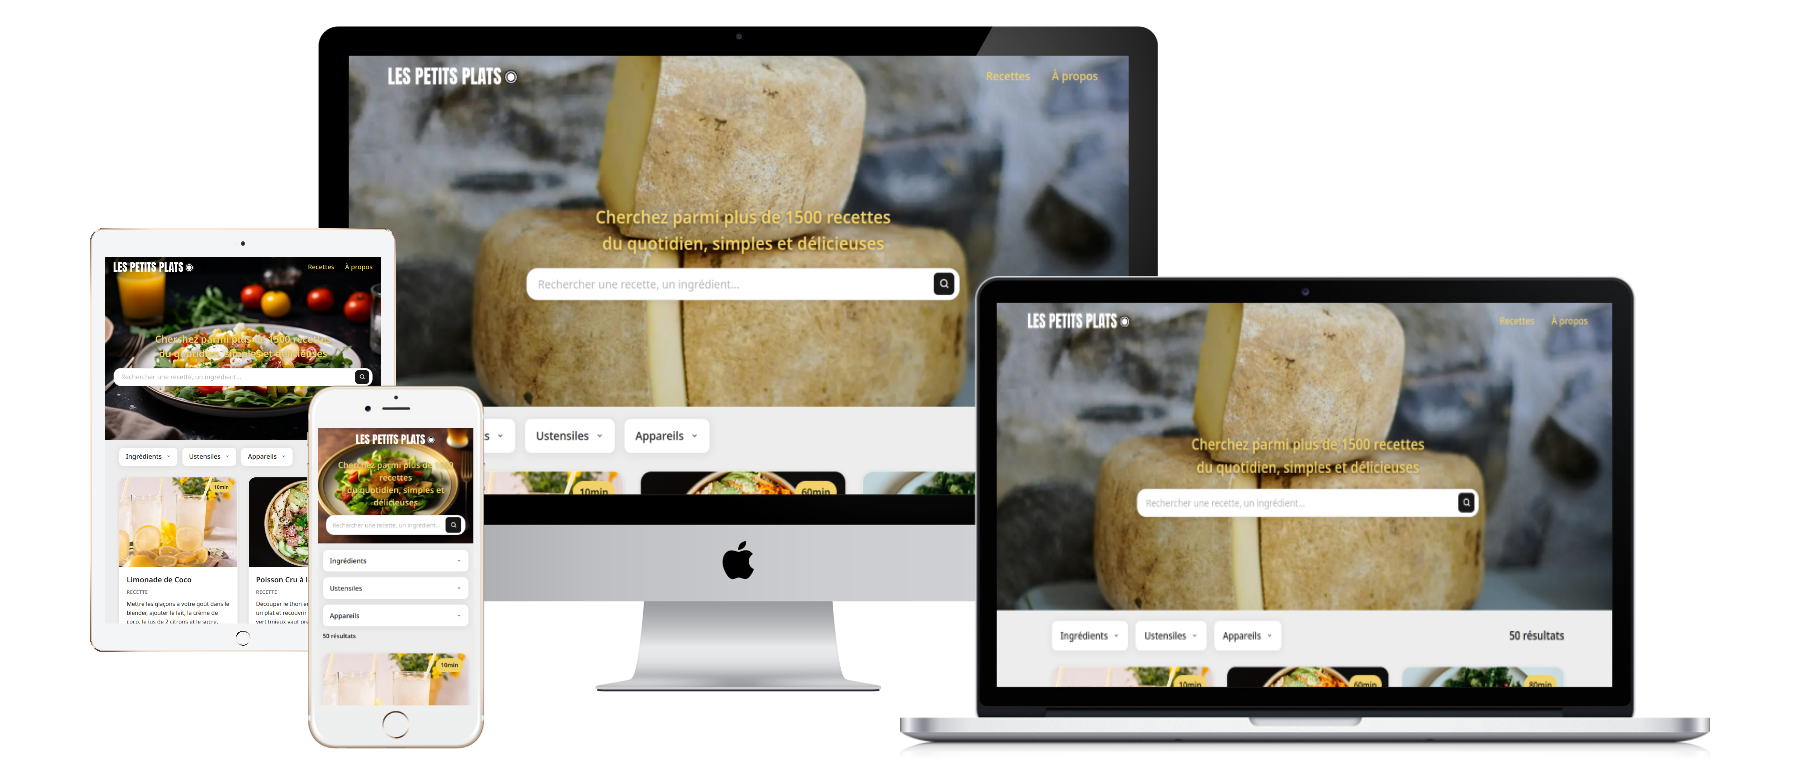
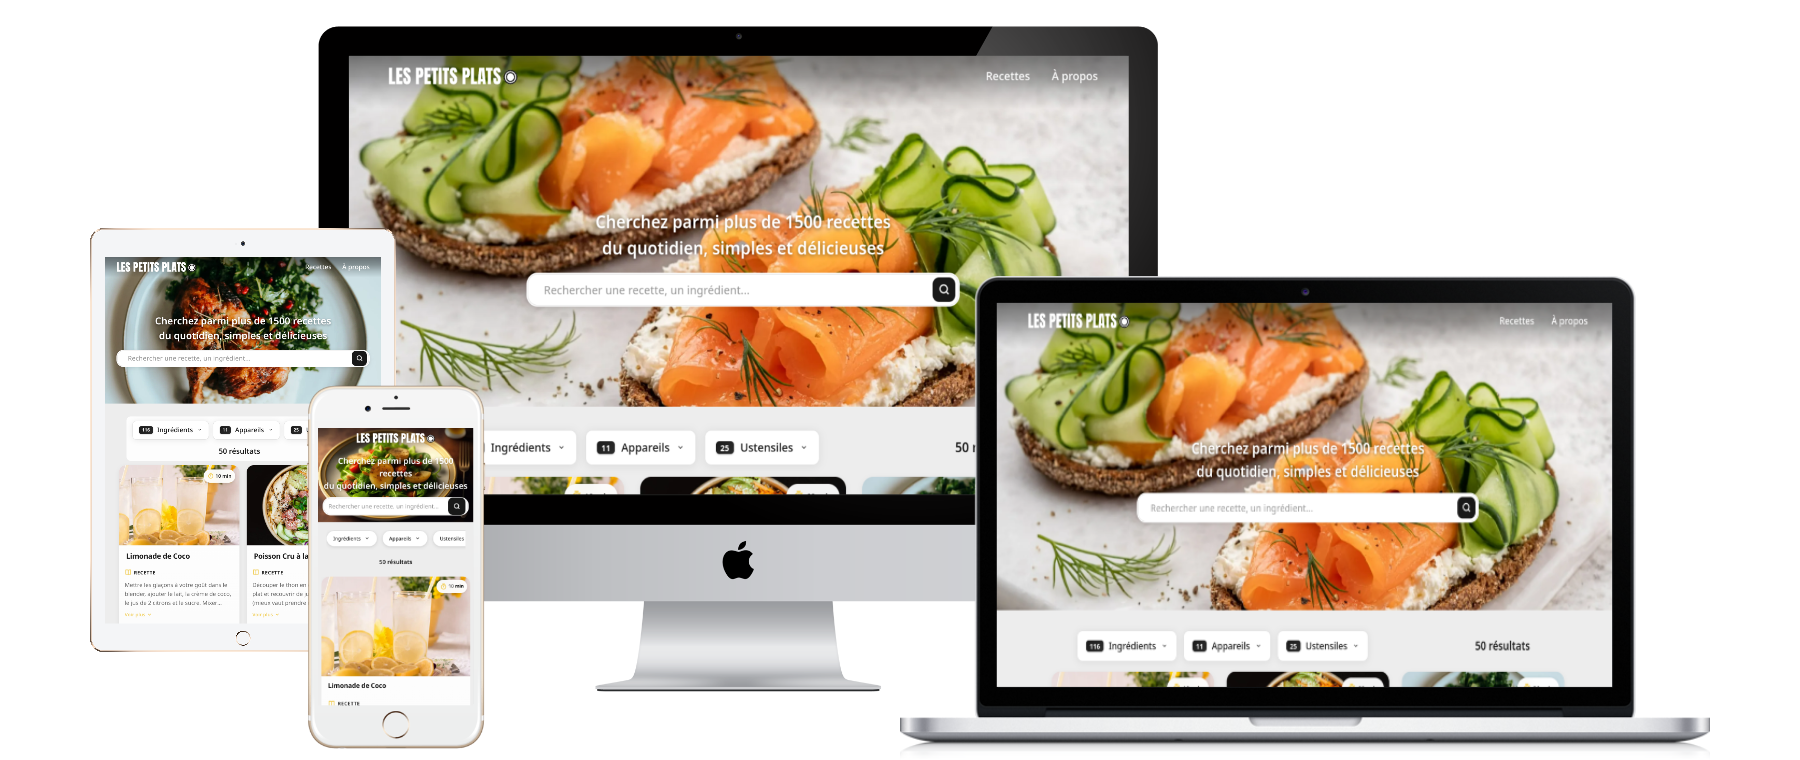
Fix. Update mockup

diff --git a/viteTest/Unit/tests/components/header.test.js b/viteTest/Unit/tests/components/header.test.js
@@ -398,7 +398,7 @@ describe("hero - setupHero - image selection", () => {
       onerror: null,
       src: "",
     };
-    const ImageSpy = vi.spyOn(global, "Image").mockImplementation(function () {
+    const ImageSpy = vi.spyOn(global, "Image").mockImplementation(() => {
       return mockImage;
     });
 
@@ -457,7 +457,7 @@ describe("hero - setupHero - missing or invalid images", () => {
       onerror: null,
       src: "",
     };
-    const ImageSpy = vi.spyOn(global, "Image").mockImplementation(function () {
+    const ImageSpy = vi.spyOn(global, "Image").mockImplementation(() => {
       return mockImage;
     });
 

diff --git a/viteTest/Unit/tests/components/hero.test.js b/viteTest/Unit/tests/components/hero.test.js
@@ -398,7 +398,7 @@ describe("hero - setupHero - image selection", () => {
       onerror: null,
       src: "",
     };
-    const ImageSpy = vi.spyOn(global, "Image").mockImplementation(function () {
+    const ImageSpy = vi.spyOn(global, "Image").mockImplementation(() => {
       return mockImage;
     });
 
@@ -457,7 +457,7 @@ describe("hero - setupHero - missing or invalid images", () => {
       onerror: null,
       src: "",
     };
-    const ImageSpy = vi.spyOn(global, "Image").mockImplementation(function () {
+    const ImageSpy = vi.spyOn(global, "Image").mockImplementation(() => {
       return mockImage;
     });
 

diff --git a/viteTest/Benchmarks/implementations/production.js b/viteTest/Benchmarks/implementations/production.js
@@ -1,5 +1,4 @@
 // Production filter functions from src/components/filters/engine.js
-import { normalizeString } from "@/utils/normalize.js";
 import { filtersEngine } from "~/src/components/filters/engine.js";
 
 // Wrapper functions for benchmark compatibility

diff --git a/scripts/optimize-images.js b/scripts/optimize-images.js
@@ -1,6 +1,6 @@
-import sharp from "sharp";
 import { readdir, stat } from "fs/promises";
 import { join, extname, basename } from "path";
+import sharp from "sharp";
 
 const SOURCE_DIR = "JSON recipes";
 
